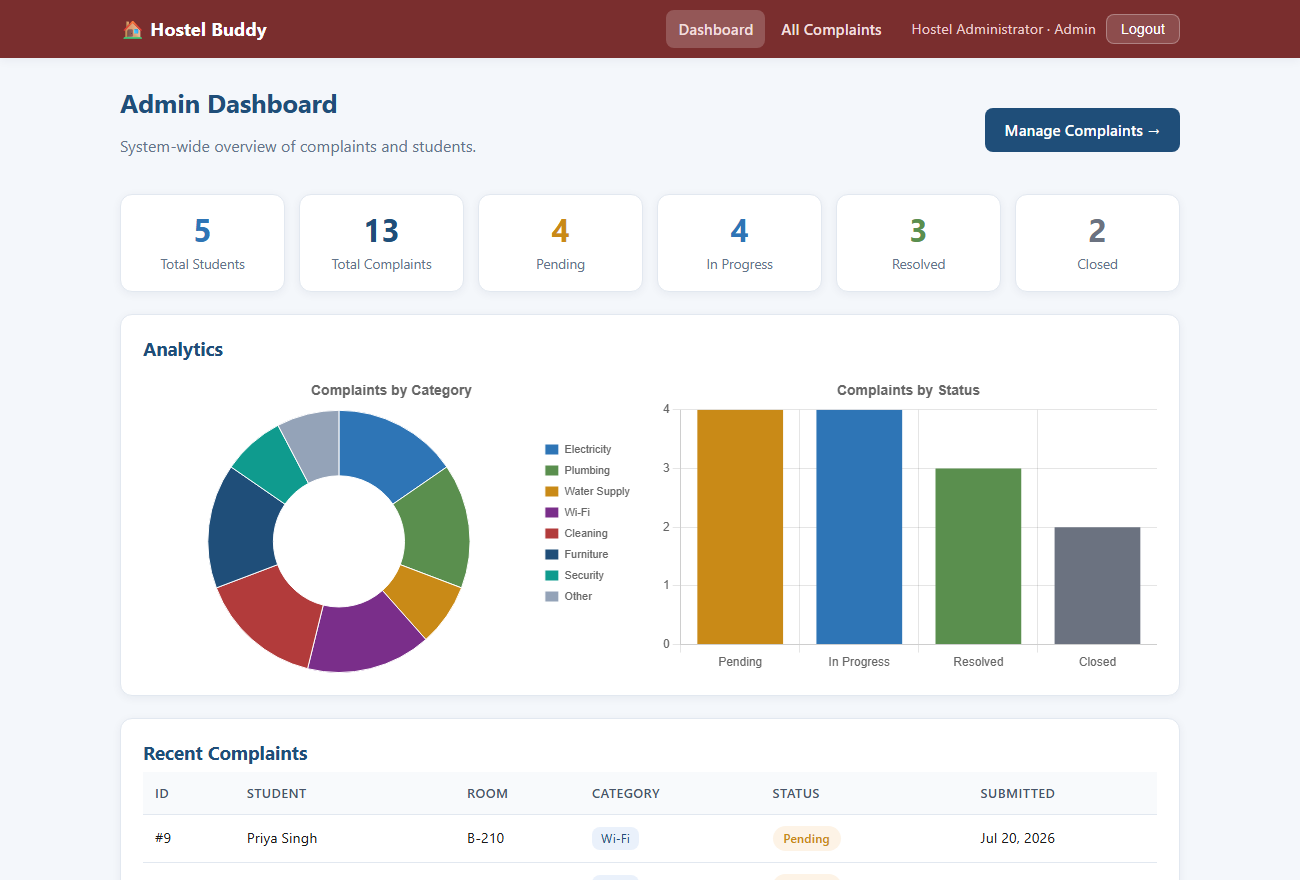
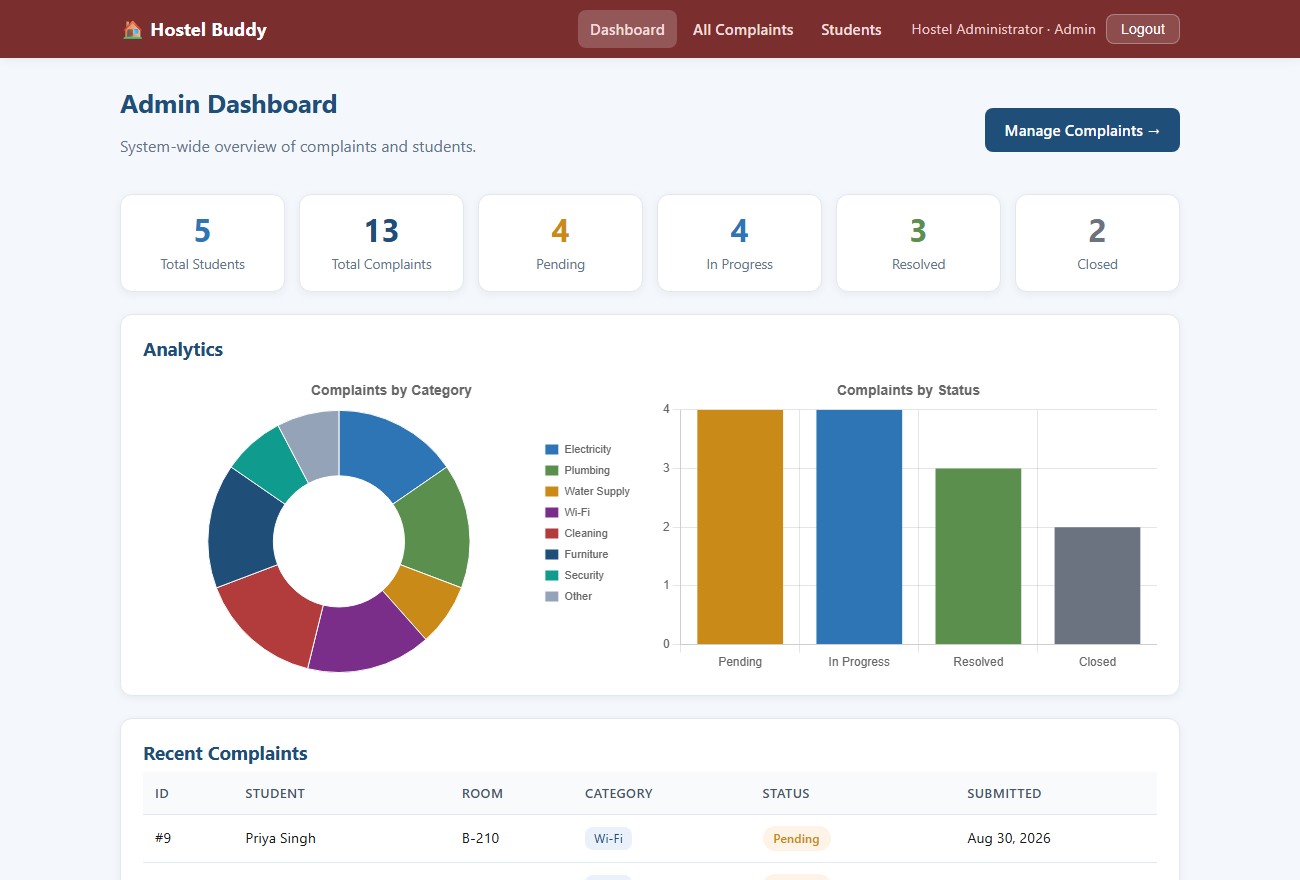
Regenerate the screenshots and add the tool that captures them
The seven images predated the audit fixes: they showed the old admin
navigation without the Students link, and the complaint tables still had
test accounts in them from when the suites wrote into the demo database.

Added docs/screenshots-source/capture.js, which starts the app on its own
port and drives headless Chrome over CDP — the same dependency-free
approach the SADD and progress-report renderers already use. It seeds the
session in localStorage before each page's script runs, polls a real
selector to know the page has finished rendering rather than guessing at
a delay, and writes every shot at the 1300x880 the existing images use.

Regenerated all nine against freshly seeded data. Three of the originals
came back byte-identical, which is a reasonable check that the tool
reproduces what was there before. Two are new: the Students page and the
404 page.

diff --git a/docs/screenshots-source/capture.js b/docs/screenshots-source/capture.js
@@ -1,0 +1,215 @@
+// Regenerate docs/screenshots/*.png from the running application.
+//
+//   npm run seed        # once, so the shots show the demo data
+//   node docs/screenshots-source/capture.js
+//
+// Starts the app on its own port against the normal database, drives headless
+// Chrome over CDP (same approach as the SADD/report renderers — no Puppeteer,
+// no extra dependencies), and captures each page at the size the existing
+// screenshots use. Nothing is written to the database; every shot is a read.
+const { spawn } = require('child_process');
+const fs = require('fs');
+const path = require('path');
+const os = require('os');
+
+const CHROME = process.env.CHROME_PATH || 'C:\\Program Files\\Google\\Chrome\\Application\\chrome.exe';
+const ROOT = path.resolve(__dirname, '..', '..');
+const OUT_DIR = path.join(ROOT, 'docs', 'screenshots');
+
+const APP_PORT = 4020;
+const ORIGIN = `http://localhost:${APP_PORT}`;
+const CDP_PORT = 9335;
+
+// Match the dimensions of the screenshots already in the repo.
+const WIDTH = 1300;
+const HEIGHT = 880;
+
+const ADMIN = { email: 'admin@hostel.test', password: 'admin123' };
+const STUDENT = { email: 'rahul@hostel.test', password: 'student123' };
+
+// Each shot names the page, who is looking at it, and how to tell it has
+// finished rendering — polling a real selector beats guessing at a delay.
+const SHOTS = [
+  { file: '01-landing.png',        path: '/index.html',            as: null,      ready: "!!document.querySelector('.auth-card, .landing, main, body > div')" },
+  { file: '02-login.png',          path: '/login.html',            as: null,      ready: "!!document.getElementById('loginForm')" },
+  { file: '03-admin-dashboard.png', path: '/admin.html',           as: 'admin',   ready: "document.querySelectorAll('#stats .stat').length >= 6 && document.querySelectorAll('canvas').length >= 2 && !!document.querySelector('#recentArea table')", settle: 1200 },
+  { file: '04-admin-complaints.png', path: '/admin-complaints.html', as: 'admin', ready: "!!document.querySelector('#resultArea table tbody tr')" },
+  { file: '05-student-dashboard.png', path: '/dashboard.html',     as: 'student', ready: "document.querySelectorAll('#stats .stat').length >= 5" },
+  { file: '06-my-complaints.png',  path: '/my-complaints.html',    as: 'student', ready: "!!document.querySelector('#listArea table tbody tr')" },
+  { file: '07-raise-complaint.png', path: '/raise.html',           as: 'student', ready: "document.getElementById('category').options.length > 1" },
+  { file: '08-admin-students.png', path: '/admin-students.html',   as: 'admin',   ready: "!!document.querySelector('#resultArea table tbody tr')" },
+  { file: '09-not-found.png',      path: '/no-such-page',          as: null,      ready: "!!document.querySelector('.auth-card')" },
+];
+
+const sleep = (ms) => new Promise((r) => setTimeout(r, ms));
+
+// --- app server ---------------------------------------------------------
+
+function startApp() {
+  const child = spawn(
+    process.execPath,
+    ['--disable-warning=ExperimentalWarning', path.join(ROOT, 'src', 'server.js')],
+    { cwd: ROOT, env: { ...process.env, PORT: String(APP_PORT) }, stdio: ['ignore', 'pipe', 'pipe'] }
+  );
+  let output = '';
+  child.stdout.on('data', (d) => { output += d; });
+  child.stderr.on('data', (d) => { output += d; });
+  child.getOutput = () => output;
+  return child;
+}
+
+async function waitForApp(server) {
+  for (let i = 0; i < 100; i++) {
+    if (server.exitCode !== null) {
+      throw new Error(`app exited early (code ${server.exitCode}):\n${server.getOutput()}`);
+    }
+    try {
+      const res = await fetch(`${ORIGIN}/api/health`);
+      if (res.ok) return;
+    } catch { /* not listening yet */ }
+    await sleep(200);
+  }
+  throw new Error(`app did not start:\n${server.getOutput()}`);
+}
+
+async function login({ email, password }) {
+  const res = await fetch(`${ORIGIN}/api/auth/login`, {
+    method: 'POST',
+    headers: { 'Content-Type': 'application/json' },
+    body: JSON.stringify({ email, password }),
+  });
+  if (!res.ok) {
+    throw new Error(`could not log in as ${email} — run "npm run seed" first (got ${res.status})`);
+  }
+  return res.json();
+}
+
+// --- chrome / CDP (same helper shape as the SADD renderer) --------------
+
+async function getWsUrl() {
+  for (let i = 0; i < 60; i++) {
+    try {
+      const res = await fetch(`http://127.0.0.1:${CDP_PORT}/json`);
+      const page = (await res.json()).find((t) => t.type === 'page');
+      if (page && page.webSocketDebuggerUrl) return page.webSocketDebuggerUrl;
+    } catch { /* not up yet */ }
+    await sleep(300);
+  }
+  throw new Error('Chrome DevTools endpoint not reachable');
+}
+
+function cdp(ws) {
+  let id = 0;
+  const pending = new Map();
+  ws.addEventListener('message', (ev) => {
+    const msg = JSON.parse(ev.data);
+    if (msg.id && pending.has(msg.id)) {
+      const { resolve, reject } = pending.get(msg.id);
+      pending.delete(msg.id);
+      msg.error ? reject(new Error(JSON.stringify(msg.error))) : resolve(msg.result);
+    }
+  });
+  return (method, params = {}) => new Promise((resolve, reject) => {
+    const mid = ++id;
+    pending.set(mid, { resolve, reject });
+    ws.send(JSON.stringify({ id: mid, method, params }));
+  });
+}
+
+// The page guards read localStorage as soon as their script runs, so the
+// session has to be in place *before* the document executes anything.
+function sessionScript(session) {
+  if (!session) {
+    return "localStorage.removeItem('hb_token'); localStorage.removeItem('hb_user');";
+  }
+  return `localStorage.setItem('hb_token', ${JSON.stringify(session.token)});` +
+         `localStorage.setItem('hb_user', ${JSON.stringify(JSON.stringify(session.user))});`;
+}
+
+async function waitFor(send, expression, label) {
+  for (let i = 0; i < 80; i++) {
+    const r = await send('Runtime.evaluate', { expression, returnByValue: true });
+    if (r.result && r.result.value === true) return true;
+    await sleep(150);
+  }
+  console.warn(`  ! ${label}: readiness check never passed — capturing anyway`);
+  return false;
+}
+
+(async () => {
+  if (!fs.existsSync(CHROME)) {
+    throw new Error(`Chrome not found at ${CHROME}. Set CHROME_PATH to override.`);
+  }
+  fs.mkdirSync(OUT_DIR, { recursive: true });
+
+  const server = startApp();
+  const userDataDir = fs.mkdtempSync(path.join(os.tmpdir(), 'hb-shot-'));
+  let chrome;
+
+  try {
+    await waitForApp(server);
+    console.log(`[shots] app running on ${ORIGIN}`);
+
+    const sessions = { admin: await login(ADMIN), student: await login(STUDENT) };
+    console.log('[shots] signed in as admin and student');
+
+    chrome = spawn(CHROME, [
+      '--headless=new', '--disable-gpu', '--no-first-run', '--no-default-browser-check',
+      '--hide-scrollbars', `--window-size=${WIDTH},${HEIGHT}`,
+      `--remote-debugging-port=${CDP_PORT}`, `--user-data-dir=${userDataDir}`,
+      'about:blank',
+    ], { stdio: 'ignore' });
+
+    const ws = new WebSocket(await getWsUrl());
+    await new Promise((res, rej) => {
+      ws.addEventListener('open', res);
+      ws.addEventListener('error', rej);
+    });
+    const send = cdp(ws);
+
+    await send('Page.enable');
+    await send('Runtime.enable');
+    await send('Emulation.setDeviceMetricsOverride', {
+      width: WIDTH, height: HEIGHT, deviceScaleFactor: 1, mobile: false,
+    });
+
+    for (const shot of SHOTS) {
+      const { identifier } = await send('Page.addScriptToEvaluateOnNewDocument', {
+        source: sessionScript(sessions[shot.as] || null),
+      });
+
+      const loaded = new Promise((res) => {
+        const onMessage = (ev) => {
+          if (JSON.parse(ev.data).method === 'Page.loadEventFired') {
+            ws.removeEventListener('message', onMessage);
+            res();
+          }
+        };
+        ws.addEventListener('message', onMessage);
+      });
+      await send('Page.navigate', { url: ORIGIN + shot.path });
+      await loaded;
+
+      await waitFor(send, shot.ready, shot.file);
+      await sleep(shot.settle || 400); // let fonts and any chart animation settle
+
+      const { data } = await send('Page.captureScreenshot', { format: 'png' });
+      const outPath = path.join(OUT_DIR, shot.file);
+      fs.writeFileSync(outPath, Buffer.from(data, 'base64'));
+      console.log(`  ✓ ${shot.file}  (${(fs.statSync(outPath).size / 1024).toFixed(0)} KB)`);
+
+      await send('Page.removeScriptToEvaluateOnNewDocument', { identifier });
+    }
+
+    ws.close();
+    console.log(`\n[shots] wrote ${SHOTS.length} screenshots to docs/screenshots/`);
+  } finally {
+    if (chrome) chrome.kill();
+    server.kill();
+    await sleep(300);
+    try { fs.rmSync(userDataDir, { recursive: true, force: true }); } catch { /* ignore */ }
+  }
+})().catch((e) => {
+  console.error('ERROR:', e.message);
+  process.exit(1);
+});
